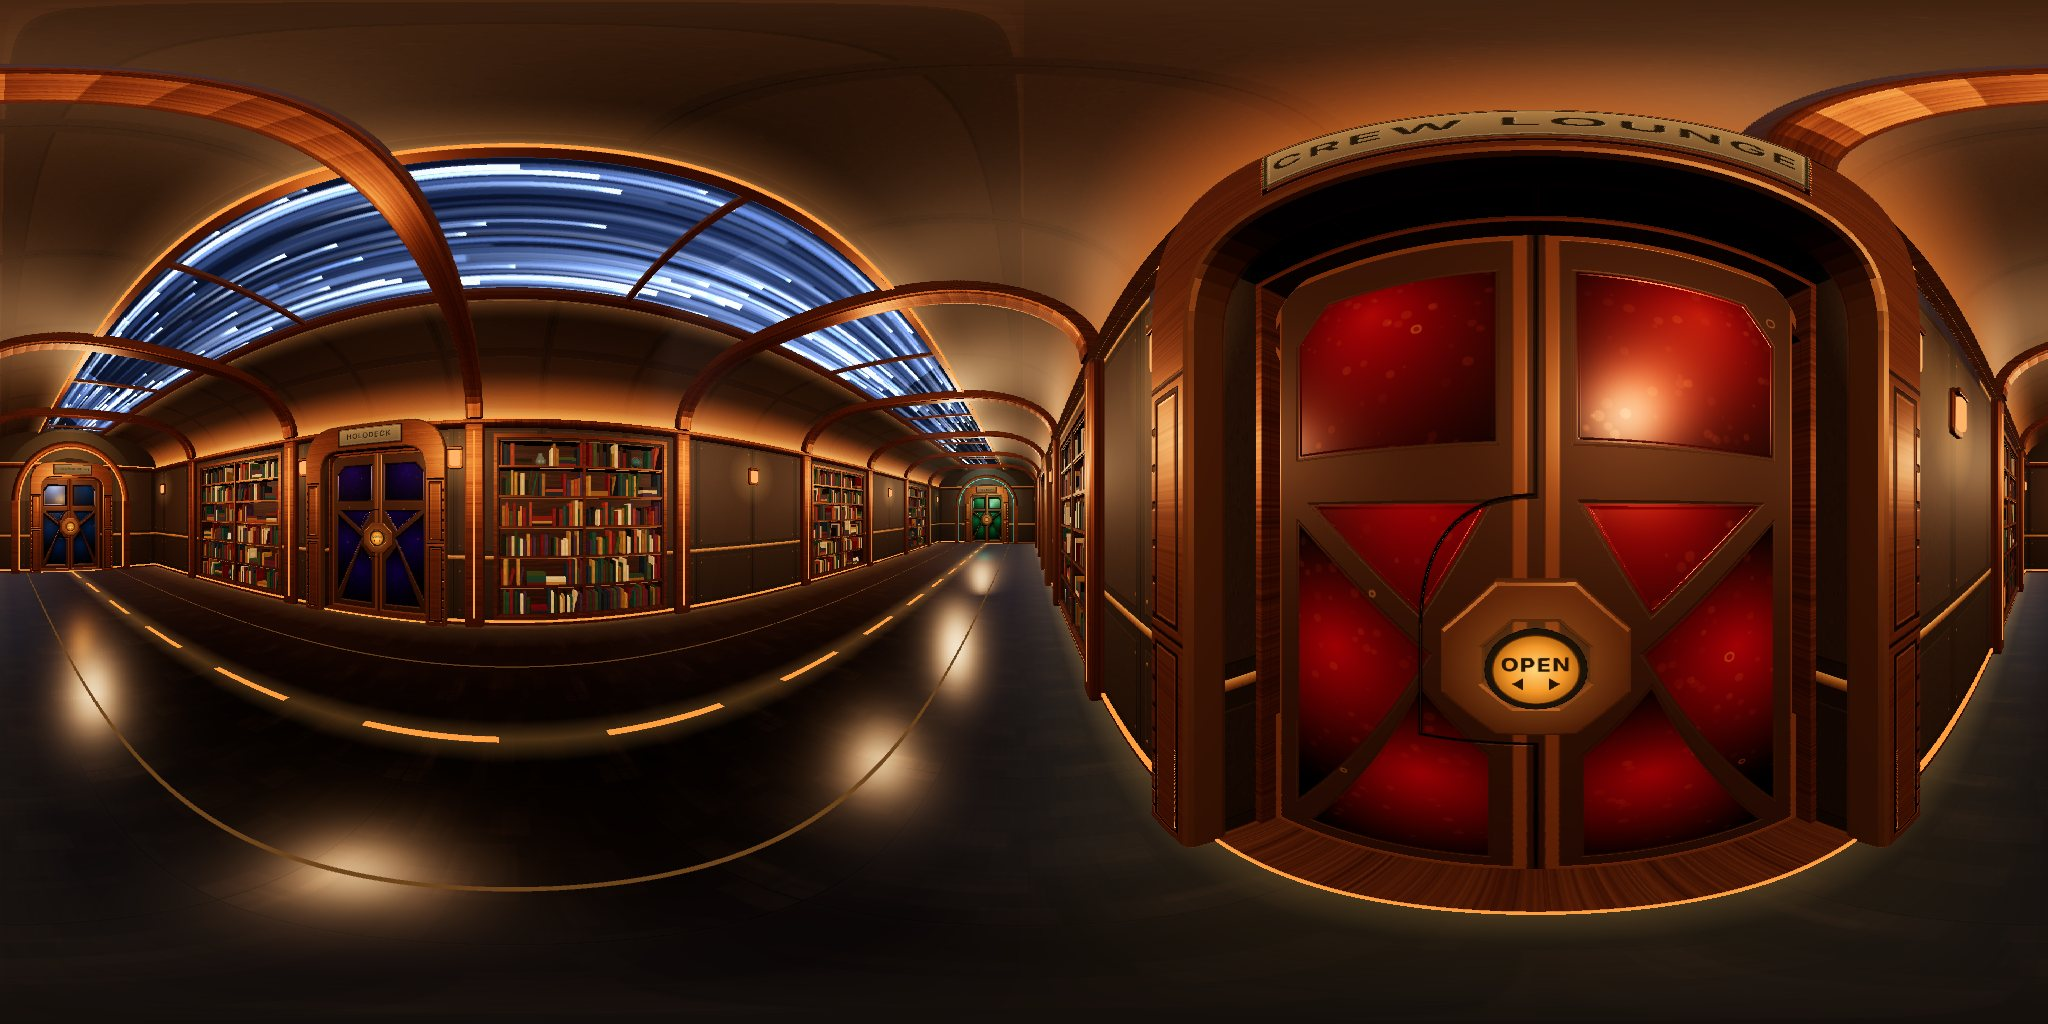
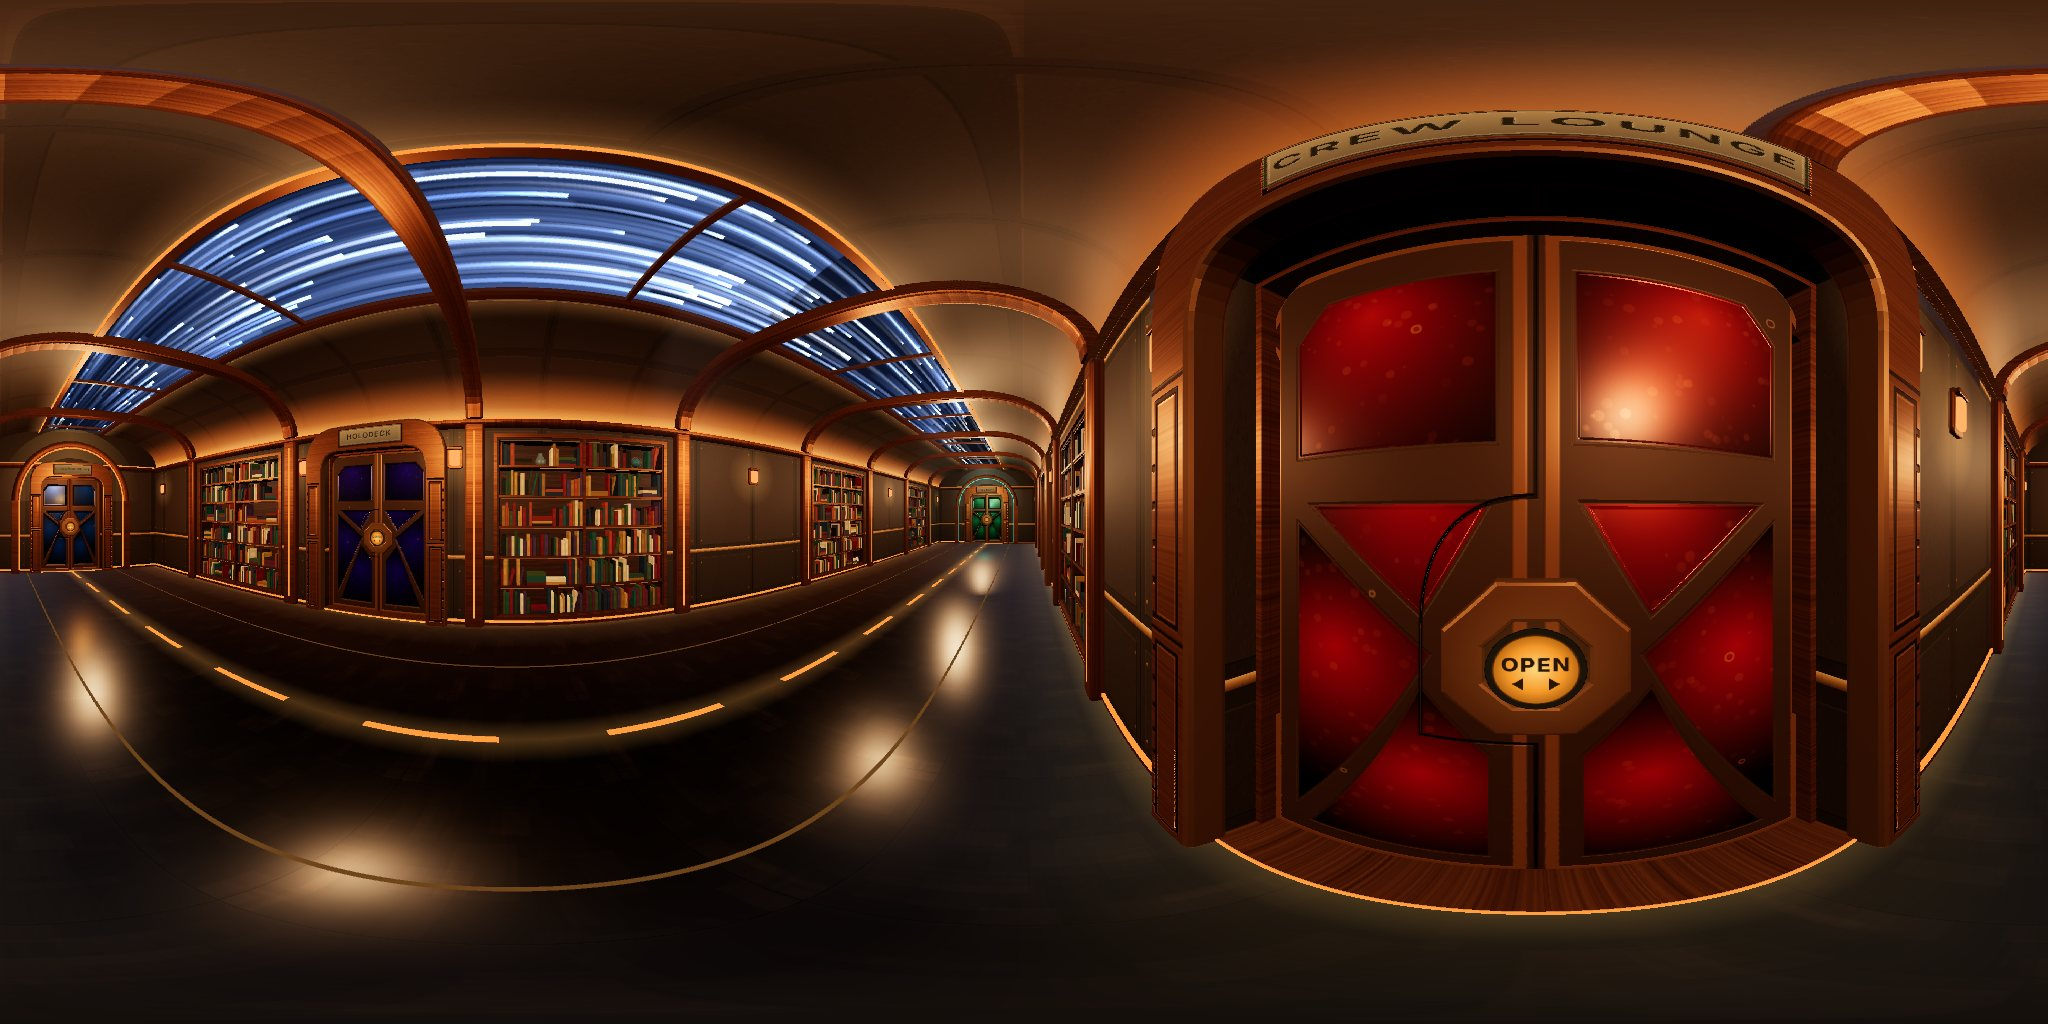
Lounge shell restyled to the ship style with a light-speed window; fix holes in its floor, ceiling and walls
Claude-Session: https://claude.ai/code/session_015swmRW9rk9HZt8JyLRwsXT

Changed region(s): [[0.0312, 0.1562, 0.5, 0.4375]]

diff --git a/lounge.html b/lounge.html
@@ -19,6 +19,7 @@
   <script src="https://aframe.io/releases/1.5.0/aframe.min.js"></script>
   <script src="mobile.js"></script>
   <script src="door.js"></script>
+  <script src="hyperspace.js"></script>
   <script src="cats.js"></script>
   <style>
     * { margin: 0; padding: 0; box-sizing: border-box; }
@@ -94,15 +95,14 @@
   </iframe>
 </div>
 
-<a-scene wayfarer-mobile="radius: 8.3"
-  fog="type: exponential; color: #1a0e06; density: 0.008"
+<a-scene wayfarer-mobile="radius: 8.3" light="defaultLightsEnabled: false"
   vr-mode-ui="enabled: true"
   renderer="antialias: true; toneMapping: ACESFilmic; exposure: 1.05"
   background="color: #060300">
 
   <!-- ===================== ROOM SHELL ===================== -->
   <!-- walls: metal panels (amber-tinted) applied via JS -->
-  <a-cylinder id="lounge-walls" radius="9" height="5.5" open-ended="true" position="0 2.75 0"
+  <a-cylinder id="lounge-walls" radius="9" height="5.5" open-ended="true" position="0 2.75 0" theta-start="201.8" theta-length="316.4" segments-radial="96" segments-height="14"
     material="side: back; color: #130a03; roughness: 0.92; metalness: 0.08">
   </a-cylinder>
   <!-- floor: grating applied via JS -->
@@ -121,9 +121,7 @@
 
   <!-- ===================== SPACE WINDOW ===================== -->
   <!-- Deep outer frame -->
-  <a-box position="0 2.6 -8.5" width="6.6" height="5.4" depth="0.5"
-    material="color: #1a1208; roughness: 0.32; metalness: 0.88">
-  </a-box>
+  <!-- (the wall has a gap here; buildShell() fills it with a panel that has a round window cut in it) -->
   <!-- Frame bolts -->
   <a-torus radius="3.2" radius-tubular="0.22" position="0 2.6 -8.28"
     material="color: #1a1208; emissive: #2a1800; emissiveIntensity: 0.4; roughness: 0.4; metalness: 0.88">
@@ -132,16 +130,11 @@
     material="color: #cc8833; emissive: #ff7722; emissiveIntensity: 1.2; roughness: 0.6">
   </a-torus>
   <!-- Viewport space scene (texture applied via JS) -->
-  <a-circle id="lounge-viewport" radius="3.13" position="0 2.6 -8.22" rotation="0 180 0">
-  </a-circle>
   <!-- Subtle glass sheen overlay -->
   <a-circle radius="3.08" position="0 2.6 -8.2" rotation="0 180 0"
     material="color: #102030; opacity: 0.06; transparent: true; roughness: 0; metalness: 1">
   </a-circle>
   <!-- Distant nebula wash behind the glass -->
-  <a-sphere position="-5 3 -55" radius="14"
-    material="color: #380a28; opacity: 0.09; transparent: true; roughness: 1; emissive: #550022; emissiveIntensity: 0.07">
-  </a-sphere>
 
   <!-- ===================== TV (brass ring, screen = browser) ===================== -->
   <a-box position="0 0.55 -7.6" width="5.6" height="1.1" depth="0.6"
@@ -183,9 +176,8 @@
   </a-box>
 
   <!-- ===================== LIGHTING ===================== -->
-  <a-light type="ambient" color="#d9a070" intensity="0.85"></a-light>
-  <a-light type="directional" color="#ffcf98" intensity="0.8" position="1.5 6 5"></a-light>
-  <a-light type="hemisphere" color="#ffc890" groundColor="#6a3a14" intensity="0.5"></a-light>
+  <a-light type="ambient" color="#d9a070" intensity="0.55"></a-light>
+  <a-light type="hemisphere" color="#ffc890" groundColor="#6a3a14" intensity="0.8"></a-light>
   <a-light type="point" position="0 4.8 0" color="#ffa648" intensity="1.5" distance="14" decay="2"></a-light>
   <a-light type="point" position="0 3.5 2.0" color="#ff7722" intensity="1.0" distance="8" decay="2"></a-light>
 
@@ -399,17 +391,70 @@
   document.querySelector('a-scene').addEventListener('loaded', function () {
     (function () { var cam = document.querySelector('[camera]'); function fv() { cam.setAttribute('camera', 'fov', innerWidth > innerHeight ? 62 : 80); } fv(); addEventListener('resize', fv); addEventListener('orientationchange', fv); })();
     var T = window.TEX;
-    document.querySelector('#lounge-walls').setAttribute('material',
-      'side: back; src: url(' + T.metalPanel + '); repeat: 20 4; roughness: 0.65; metalness: 0.15; color: #d8a068; emissive: #4a2a10; emissiveIntensity: 0.55');
-    document.querySelector('#lounge-floor').setAttribute('material',
-      'src: url(' + T.floorGrate + '); repeat: 14 14; roughness: 0.4; metalness: 0.3; color: #b07a48; emissive: #3a1e0a; emissiveIntensity: 0.5');
-    document.querySelector('#lounge-ceil').setAttribute('material',
-      'src: url(' + T.ceilPanel + '); repeat: 14 14; roughness: 0.6; metalness: 0.2; color: #b88850; emissive: #3a2210; emissiveIntensity: 0.5');
-    document.querySelector('#lounge-viewport').setAttribute('material',
-      'src: url(' + T.viewport + '); roughness: 0; metalness: 0; shader: flat; side: front');
+    buildShell();
 
     const scene = document.querySelector('a-scene');
     buildLounge();
+
+    // ===================== SHIP-STYLE SHELL (Nov 24): walnut walls, bronze ribs, polished deck, amber ceiling ring,
+    // and a real round window behind the TV showing light speed (the Lounge is on the ship's side, so streaks run past).
+    function buildShell() {
+      var THREE = AFRAME.THREE, sc = document.querySelector('a-scene'), g = new THREE.Group(); sc.object3D.add(g);
+      function cv(w, h) { var c = document.createElement('canvas'); c.width = w; c.height = h; return c; }
+      function tx(c, rx, ry) { var t = new THREE.CanvasTexture(c); t.colorSpace = THREE.SRGBColorSpace; t.wrapS = t.wrapT = THREE.RepeatWrapping; t.repeat.set(rx, ry); t.anisotropy = 4; return t; }
+      function rr(w, h, r) { var x = -w / 2, y = -h / 2, s2 = new THREE.Shape(); s2.moveTo(x + r, y); s2.lineTo(x + w - r, y); s2.quadraticCurveTo(x + w, y, x + w, y + r); s2.lineTo(x + w, y + h - r); s2.quadraticCurveTo(x + w, y + h, x + w - r, y + h); s2.lineTo(x + r, y + h); s2.quadraticCurveTo(x, y + h, x, y + h - r); s2.lineTo(x, y + r); s2.quadraticCurveTo(x, y, x + r, y); return s2; }
+      function soft(sh, d, b) { var gg = new THREE.ExtrudeGeometry(sh, { depth: d, bevelEnabled: true, bevelThickness: b, bevelSize: b, bevelSegments: 2, curveSegments: 6 }); gg.translate(0, 0, -d / 2); return gg; }
+      // walnut wall texture, 5.5 m tall
+      var W = 512, H = 1024, c = cv(W, H), x = c.getContext('2d'), Y = function (m) { return (1 - m / 5.5) * H; };
+      x.fillStyle = '#2b221c'; x.fillRect(0, 0, W, H);
+      function inset(y0, y1, col) { x.fillStyle = col; x.fillRect(26, Y(y1), W - 52, Y(y0) - Y(y1)); x.fillStyle = 'rgba(255,210,150,0.07)'; x.fillRect(26, Y(y1), W - 52, 3); x.fillStyle = 'rgba(0,0,0,0.35)'; x.fillRect(26, Y(y0) - 3, W - 52, 3); }
+      inset(1.06, 4.8, '#372b23'); inset(0.14, 0.86, '#2f251e');
+      x.fillStyle = 'rgba(0,0,0,0.55)'; x.fillRect(0, 0, 3, H);
+      function rail(m, h) { var gr = x.createLinearGradient(0, Y(m + h), 0, Y(m)); gr.addColorStop(0, '#d9a866'); gr.addColorStop(0.5, '#9a6c36'); gr.addColorStop(1, '#5a3d1e'); x.fillStyle = gr; x.fillRect(0, Y(m + h), W, Y(m) - Y(m + h)); }
+      rail(0.95, 0.05); rail(4.95, 0.04);
+      for (var i = 0; i < 9000; i++) { x.fillStyle = Math.random() < 0.5 ? 'rgba(0,0,0,0.06)' : 'rgba(255,220,180,0.025)'; x.fillRect(Math.random() * W, Math.random() * H, 1 + Math.random() * 2, 1 + Math.random() * 8); }
+      var wallT = tx(c, 38, 1), wallM = new THREE.MeshStandardMaterial({ map: wallT, roughness: 0.62, metalness: 0.15, side: THREE.BackSide });
+      document.getElementById('lounge-walls').getObject3D('mesh').material = wallM;
+      // the panel that fills the wall gap, with the round window cut out of it
+      var half = 9 * Math.sin(0.38), zc = -9 * Math.cos(0.38), sh = new THREE.Shape(); sh.moveTo(-half - 0.05, 0); sh.lineTo(half + 0.05, 0); sh.lineTo(half + 0.05, 5.5); sh.lineTo(-half - 0.05, 5.5); sh.lineTo(-half - 0.05, 0);
+      var hole = new THREE.Path(); hole.absarc(0, 2.6, 3.1, 0, Math.PI * 2, true); sh.holes.push(hole);
+      var pt = wallT.clone(); pt.repeat.set(1 / 1.2, 1 / 5.5); pt.needsUpdate = true;
+      var pan = new THREE.Mesh(new THREE.ShapeGeometry(sh, 48), new THREE.MeshStandardMaterial({ map: pt, roughness: 0.62, metalness: 0.15 })); pan.position.z = zc; g.add(pan);
+      // deck: polished dark plates + amber inlay rings
+      var dc = cv(512, 512), dx = dc.getContext('2d'); dx.fillStyle = '#1e1a17'; dx.fillRect(0, 0, 512, 512);
+      for (i = 0; i < 70; i++) { dx.fillStyle = 'rgba(' + (Math.random() < 0.5 ? '0,0,0' : '255,230,200') + ',' + (0.015 + Math.random() * 0.025) + ')'; dx.fillRect(Math.random() * 512, Math.random() * 512, 40 + Math.random() * 160, 20 + Math.random() * 90); }
+      dx.fillStyle = 'rgba(0,0,0,0.65)'; dx.fillRect(0, 0, 512, 3); dx.fillRect(0, 0, 3, 512);
+      document.getElementById('lounge-floor').getObject3D('mesh').material = new THREE.MeshStandardMaterial({ map: tx(dc, 9, 9), roughness: 0.32, metalness: 0.5, color: 0xa89e92, envMapIntensity: 0.5 }); document.getElementById('lounge-floor').getObject3D('mesh').material.userData.keepEnv = true;
+      // the floor as many small triangles (a single centre-fan cap left wedge-shaped holes near the camera)
+      (function () { var fm = document.getElementById('lounge-floor').getObject3D('mesh'), rg = new THREE.RingGeometry(0.001, 9.1, 96, 14); rg.rotateX(-Math.PI / 2); rg.translate(0, 0.05, 0);
+        var uv = rg.attributes.uv, pos = rg.attributes.position; for (var k = 0; k < uv.count; k++) uv.setXY(k, pos.getX(k) / 18.2 + 0.5, -pos.getZ(k) / 18.2 + 0.5); fm.geometry.dispose(); fm.geometry = rg; }());
+      (function () { var cm = document.getElementById('lounge-ceil').getObject3D('mesh'), rg = new THREE.RingGeometry(0.001, 9.1, 96, 14); rg.rotateX(Math.PI / 2); rg.translate(0, -0.05, 0);
+        var uv = rg.attributes.uv, pos = rg.attributes.position; for (var k = 0; k < uv.count; k++) uv.setXY(k, pos.getX(k) / 18.2 + 0.5, pos.getZ(k) / 18.2 + 0.5); cm.geometry.dispose(); cm.geometry = rg; }());
+      var amber = new THREE.MeshBasicMaterial({ color: 0xffa040, toneMapped: false });
+      [[8.4, 0.03], [6.6, 0.02]].forEach(function (q) { var t = new THREE.Mesh(new THREE.RingGeometry(q[0] - q[1], q[0] + q[1], 160), amber); t.rotation.x = -Math.PI / 2; t.position.y = 0.105; g.add(t); });
+      // ceiling: dark panels, bronze rims either side of the existing amber ring, amber cove at the wall top
+      var cc = cv(512, 512), cx = cc.getContext('2d'); cx.fillStyle = '#231b15'; cx.fillRect(0, 0, 512, 512);
+      for (i = 0; i < 4000; i++) { cx.fillStyle = Math.random() < 0.5 ? 'rgba(0,0,0,0.08)' : 'rgba(255,220,180,0.03)'; cx.fillRect(Math.random() * 512, Math.random() * 512, 1 + Math.random() * 3, 1 + Math.random() * 3); }
+      cx.strokeStyle = 'rgba(0,0,0,0.5)'; cx.lineWidth = 3; cx.strokeRect(0, 0, 512, 512);
+      document.getElementById('lounge-ceil').getObject3D('mesh').material = new THREE.MeshStandardMaterial({ map: tx(cc, 7, 7), roughness: 0.8, metalness: 0.15, side: THREE.DoubleSide });
+      var bc = cv(256, 256), bx = bc.getContext('2d'); bx.fillStyle = '#8c6234'; bx.fillRect(0, 0, 256, 256); for (i = 0; i < 1400; i++) { var a = Math.random() * 0.18; bx.fillStyle = Math.random() < 0.5 ? 'rgba(255,215,150,' + a * 0.5 + ')' : 'rgba(40,20,6,' + a * 0.5 + ')'; bx.fillRect(0, Math.random() * 256, 256, 1); }
+      var bronze = new THREE.MeshStandardMaterial({ map: tx(bc, 1, 1), color: 0xd8b58a, roughness: 0.42, metalness: 0.8, emissive: 0x1a0e04, emissiveIntensity: 0.6 });
+      [7.05, 7.75, 8.9].forEach(function (r2) { var t = new THREE.Mesh(new THREE.TorusGeometry(r2, r2 > 8 ? 0.1 : 0.07, 8, 160), bronze); t.rotation.x = Math.PI / 2; t.position.y = 5.43; g.add(t); });
+      var cove = new THREE.Mesh(new THREE.TorusGeometry(8.85, 0.04, 6, 192), amber); cove.rotation.x = Math.PI / 2; cove.position.y = 5.32; g.add(cove);
+      // bevelled bronze ribs round the wall (clear of the window, the door, the plaques and slot lamps)
+      var leg = soft(rr(0.24, 5.3, 0.05), 0.1, 0.03);
+      [32, 58, 112, 140, 160, -32, -45, -112, -140, -160].forEach(function (deg) {
+        var t2 = deg * Math.PI / 180, m = new THREE.Mesh(leg, bronze); m.position.set(8.94 * Math.sin(t2), 2.7, -8.94 * Math.cos(t2)); m.rotation.y = -t2; g.add(m);
+        var l = new THREE.Mesh(new THREE.BoxGeometry(0.012, 4.9, 0.01), amber); l.position.set(8.86 * Math.sin(t2), 2.7, -8.86 * Math.cos(t2)); l.rotation.y = -t2; g.add(l);
+      });
+      // window ring trim in the bronze language
+      var wr = new THREE.Mesh(new THREE.TorusGeometry(3.15, 0.14, 12, 96), bronze); wr.position.set(0, 2.6, zc + 0.05); g.add(wr);
+      // light speed outside: a frame turned so the ship's forward (+X in this room) is the streams' axis
+      var outside = new THREE.Group(); outside.rotation.y = Math.PI / 2; sc.object3D.add(outside);
+      var hs = window.WAYFARER.hyperspace(outside, { fwd: 1, arc: [-180, 180], count: (window.WAYFARER && window.WAYFARER.mobile) ? 900 : 1500, minR: 12, maxR: 190, tunnel: 0.6, width: 0.55, bright: 0.9, seed: 55, center: [0, 2.6] });
+      AFRAME.registerComponent('wf-lounge-hyper', { tick: function (t) { hs.update(t / 1000); } });
+      sc.setAttribute('wf-lounge-hyper', '');
+    }
 
     // warm room environment (stands in for an indoor HDRI): gives metals and leather something to reflect
     (function () {
@@ -422,7 +467,7 @@
       var tg = g.createRadialGradient(135, 122, 2, 135, 122, 46); tg.addColorStop(0, 'rgba(120,170,255,0.35)'); tg.addColorStop(1, 'rgba(120,170,255,0)'); g.fillStyle = tg; g.fillRect(85, 76, 100, 92);   // cool TV glow (soft: a hard block mirrored as lavender slabs on the floor)
       var tex = new THREE.CanvasTexture(c); tex.colorSpace = THREE.SRGBColorSpace;
       var pm = new THREE.PMREMGenerator(scene.renderer); scene.object3D.environment = pm.fromEquirectangular(tex).texture; pm.dispose();
-      setTimeout(function () { scene.object3D.traverse(function (o) { var m = o.material; if (m && m.isMeshStandardMaterial) m.envMapIntensity = 1.7; }); }, 600);
+      setTimeout(function () { scene.object3D.traverse(function (o) { var m = o.material; if (m && m.isMeshStandardMaterial && !m.userData.keepEnv) m.envMapIntensity = 1.7; }); }, 600);
     }());
 
     // click: TV

diff --git a/CLAUDE.md b/CLAUDE.md
@@ -109,7 +109,10 @@ Rules drawn from them:
 - **Library** (`library.html`) — pearly veined brain in a cabled electrogel tank, copper room, dome, scroll
   reader. Scrolls hold placeholder text, not the user's Obsidian notes yet.
 - **Crew Lounge** (`lounge.html`) — curved leather sofa, brass table, woven rug, rigged alien cats on a shared
-  60 s stretch cycle, browser TV, painting, plaque.
+  60 s stretch cycle, browser TV, bookshelf, sideboard, painting, plants, plaques. SHELL restyled Nov 24 (`buildShell`):
+  walnut walls + bronze ribs, polished deck + amber rings, dark ceiling with bronze rims round the amber ring, amber
+  cove; the wall has a real gap behind the TV with a round window showing light speed running SIDEWAYS (the Lounge
+  faces starboard; ship forward = +X in this room, so the hyperspace group is rotated 90°).
 - **Media Nexus** (`media.html`) — circular room, 11 screens on placeholder searches. Needs the hybrid rebuild
   and a YouTube Data API v3 key.
 - **Holodeck** (`holodeck.html`) — RESTYLED Nov 24: square room (±9 m, 4.4 m high), dark panels with glowing amber
@@ -124,12 +127,12 @@ Rules drawn from them:
 1. Media Nexus hybrid rebuild — needs YouTube API key from the user (a key in a Pages site is public:
    restrict it to the Pages domain in Google Cloud)
 2. Library — load the user's real Obsidian markdown into the scrolls (user will add the files)
-3. Lounge touch-up to the reference (bookshelf, lamp, plants, YouTube on the TV)
+3. Lounge: YouTube on the TV (needs the API key, same as Media Nexus)
 4. Flight Mode (`minigame.html`) restyle to match
 5. Collision / room boundaries everywhere
 
 ## Known issues
-- Lounge floor/ceiling turn into flat blown-out patches (lavender floor) when looking sideways near the door. The
-  patches follow the disc's triangles and come from the lounge's 13 point lights. Seen in headless swiftshader;
-  NOT yet checked on iPhone. Shows in `room-lounge.jpg` at the sides.
+- RULE (found Nov 24): never use big single-fan discs / tall single-quad walls for floors, ceilings or walls the
+  player walks next to. Their huge thin triangles get clipped wrong near the camera and leave holes (the Lounge's
+  old "lavender floor" was the background showing through). Use RingGeometry(…, 96, 14) / segments-height ≥ 12.
 - Mobile autoplay: test the 15 s video loop on an actual iPhone before committing to that UX.
